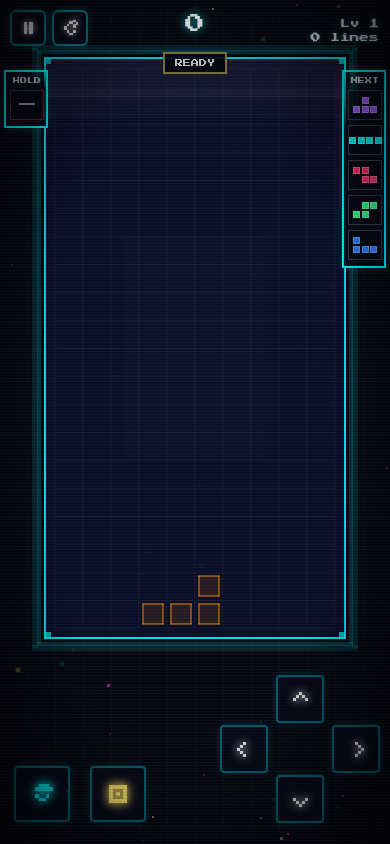
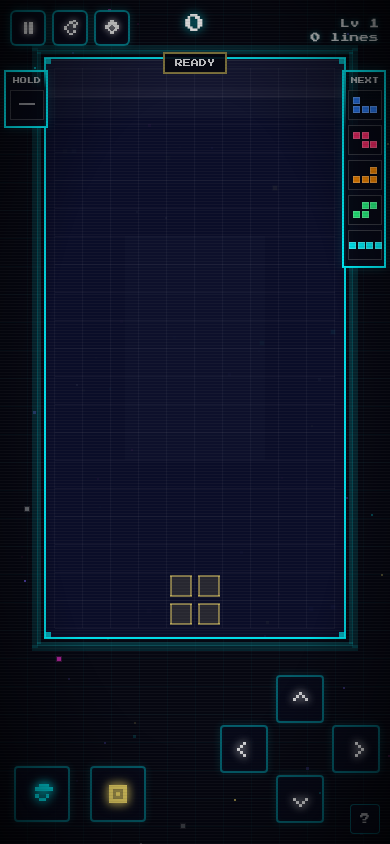
docs: overhaul README and update screenshots

diff --git a/README.md b/README.md
@@ -1,30 +1,34 @@
 <div align="center">
 
-<img src="docs/screenshot-desktop.png" width="100%" alt="Neon Tetris" />
+<img src="docs/screenshot-desktop.png" width="100%" alt="Neon Tetris — Desktop" />
 
-# Neon Tetris
+# ✦ NEON TETRIS
 
-A Tetris clone that got out of hand.
+**Cyberpunk Tetris. Runs in your browser. No install.**
 
-[![Play](https://img.shields.io/badge/▶_Play_Now-tetris.pixpress.art-ff2bd6?style=for-the-badge)](https://tetris.pixpress.art)
+[![Play Now](https://img.shields.io/badge/▶%20PLAY%20NOW-tetris.pixpress.art-ff2bd6?style=for-the-badge&labelColor=0a0e2a)](https://tetris.pixpress.art)
 &nbsp;
-[![License](https://img.shields.io/badge/License-MIT-222?style=for-the-badge)](LICENSE)
+[![GitHub](https://img.shields.io/badge/Source-GitHub-222?style=for-the-badge&logo=github)](https://github.com/DuongStark/Tetris)
+&nbsp;
+[![License](https://img.shields.io/badge/License-MIT-7b61ff?style=for-the-badge)](LICENSE)
 
 </div>
 
 ---
 
-Cyberpunk-themed Tetris with CRT scanlines, chromatic aberration, particle explosions, and a synthesized soundtrack. No audio files — every sound is generated on the fly via Web Audio API.
-
-T-spin detection, perfect clear, combo chains. Ghost piece. Works on mobile.
-
 <div align="center">
-<img src="docs/screenshot-mobile.png" width="320" alt="Mobile view" />
+<img src="docs/screenshot-mobile.png" width="280" alt="Neon Tetris — Mobile" />
 </div>
+
+---
+
+Tetris with a neon/cyberpunk coat of paint. CRT scanlines, chromatic aberration, vignette — inspired by Balatro's visual style. Every sound effect is synthesized live via Web Audio API, no audio files bundled. T-spin detection, perfect clear, combo chains. Swipe gestures on mobile with DAS/ARR. Settings menu to toggle everything.
 
 ---
 
 ## Controls
+
+### Desktop
 
 | Key | Action |
 |-----|--------|
@@ -35,13 +39,29 @@ T-spin detection, perfect clear, combo chains. Ghost piece. Works on mobile.
 | `C` / `Shift` | Hold |
 | `P` / `Esc` | Pause |
 
-On mobile, use the on-screen D-pad.
+### Mobile
+
+Swipe left/right to move, swipe down to drop, swipe up to hard drop, tap to rotate. On-screen buttons also available.
+
+---
+
+## Scoring
+
+| Move | Points |
+|------|--------|
+| Single | 100 × level |
+| Double | 300 × level |
+| Triple | 500 × level |
+| Tetris | 800 × level |
+| T-Spin | 400–1600 × level |
+| Perfect Clear | 1000 × level |
+| Combo | +50 per chain |
 
 ---
 
 ## Stack
 
-Phaser 3 · TypeScript · Vite · Web Audio API · PWA
+[Phaser 3](https://phaser.io) · TypeScript · Vite · Web Audio API · PWA
 
 ---
 
@@ -56,17 +76,14 @@ npm run dev
 
 ---
 
-## Scoring
+## Settings
 
-| Move | Points |
-|------|--------|
-| Single | 100 × level |
-| Double | 300 × level |
-| Triple | 500 × level |
-| Tetris | 800 × level |
-| T-Spin | 400–1600 × level |
-| Perfect Clear | 1000 × level |
+In-game settings menu (⚙) lets you toggle:
+- CRT effects (scanlines, vignette, chromatic aberration)
+- Ghost piece
+- Board float animation
+- Sound
 
 ---
 
-MIT
+MIT © DuongStark
